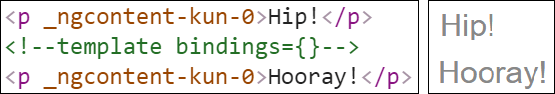
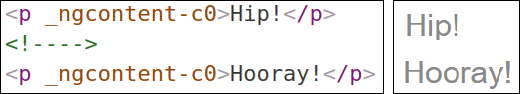
feat(compiler): set `enableLegacyTemplate` to false by default (#18756)
BREAKING CHANGE: the compiler option `enableLegacyTemplate` is now disabled by default as the `<template>` element has been deprecated since v4. Use `<ng-template>` instead. The option `enableLegacyTemplate` and the `<template>` element will both be removed in Angular v6.
PR Close #18756

Changed region(s): [[0.0, 0.0, 0.9846, 1.0], [0.0, 0.0426, 0.6769, 0.3191], [0.0, 0.3617, 0.6462, 0.6383]]

diff --git a/aio/content/examples/structural-directives/src/app/app.component.html b/aio/content/examples/structural-directives/src/app/app.component.html
@@ -55,11 +55,6 @@
 </ng-template>
 <!-- #enddocregion ngif-template -->
 
-<p>template attribute</p>
-<!-- #docregion ngif-template-attr -->
-<div template="ngIf hero">{{hero.name}}</div>
-<!-- #enddocregion ngif-template-attr -->
-
 <hr>
 
 <h2 id="ng-container">&lt;ng-container&gt;</h2>
@@ -131,14 +126,7 @@
 </div>
 
 <!--#enddocregion inside-ngfor -->
-<p class="code">&lt;div template="ngFor let hero of heroes; let i=index; let odd=odd; trackBy: trackById" [class.odd]="odd"&gt;</p>
-<!--#docregion inside-ngfor -->
-<div template="ngFor let hero of heroes; let i=index; let odd=odd; trackBy: trackById" [class.odd]="odd">
-  ({{i}}) {{hero.name}}
-</div>
-
-<!--#enddocregion inside-ngfor -->
-<p class="code">&lt;template ngFor let-hero [ngForOf]="heroes" let-i="index" let-odd="odd" [ngForTrackBy]="trackById"&gt;</p>
+<p class="code">&lt;ng-template ngFor let-hero [ngForOf]="heroes" let-i="index" let-odd="odd" [ngForTrackBy]="trackById"/&gt;</p>
 <!--#docregion inside-ngfor -->
 <ng-template ngFor let-hero [ngForOf]="heroes" let-i="index" let-odd="odd" [ngForTrackBy]="trackById">
   <div [class.odd]="odd">({{i}}) {{hero.name}}</div>
@@ -169,16 +157,6 @@
 </div>
 <!-- #enddocregion built-in, ngswitch -->
 
-<h4>NgSwitch with <i>template</i> attribute</h4>
-<!-- #docregion ngswitch-template-attr -->
-<div [ngSwitch]="hero?.emotion">
-  <happy-hero    template="ngSwitchCase 'happy'"    [hero]="hero"></happy-hero>
-  <sad-hero      template="ngSwitchCase 'sad'"      [hero]="hero"></sad-hero>
-  <confused-hero template="ngSwitchCase 'confused'" [hero]="hero"></confused-hero>
-  <unknown-hero  template="ngSwitchDefault"         [hero]="hero"></unknown-hero>
-</div>
-<!-- #enddocregion ngswitch-template-attr -->
-
 <h4>NgSwitch with &lt;ng-template&gt;</h4>
 <!-- #docregion ngswitch-template -->
 <div [ngSwitch]="hero?.emotion">
@@ -199,7 +177,7 @@
 
 <hr>
 
-<h2>&lt;template&gt;</h2>
+<h2>&lt;ng-template&gt;</h2>
 <!-- #docregion template-tag -->
 <p>Hip!</p>
 <ng-template>
@@ -238,13 +216,13 @@
 <p *myUnless="condition">Show this sentence unless the condition is true.</p>
 <!-- #enddocregion myUnless-1 -->
 
-<p template="myUnless condition" class="code unless">
-  (A) &lt;p template="myUnless condition" class="code unless"&gt;
+<p *myUnless="condition" class="code unless">
+  (A) &lt;p *myUnless="condition" class="code unless"&gt;
 </p>
 
 <ng-template [myUnless]="condition">
   <p class="code unless">
-    (A) &lt;template [myUnless]="condition"&gt;
+    (A) &lt;ng-template [myUnless]="condition"&gt;
   </p>
 </ng-template>
 

diff --git a/packages/compiler/test/template_parser/template_parser_spec.ts b/packages/compiler/test/template_parser/template_parser_spec.ts
@@ -121,16 +121,19 @@ export function main() {
       schemas?: SchemaMetadata[], preserveWhitespaces?: boolean) => TemplateAst[];
   let console: ArrayConsole;
 
-  function commonBeforeEach() {
+  function configureCompiler() {
+    console = new ArrayConsole();
     beforeEach(() => {
-      console = new ArrayConsole();
       TestBed.configureCompiler({
         providers: [
           {provide: Console, useValue: console},
+          {provide: CompilerConfig, useValue: new CompilerConfig({enableLegacyTemplate: true})}
         ],
       });
     });
+  }
 
+  function commonBeforeEach() {
     beforeEach(inject([TemplateParser], (parser: TemplateParser) => {
       const someAnimation = new CompileAnimationEntryMetadata('someAnimation', []);
       const someTemplate = compileTemplateMetadata({animations: [someAnimation]});
@@ -286,6 +289,7 @@ export function main() {
       });
     });
 
+    configureCompiler();
     commonBeforeEach();
 
     describe('security context', () => {
@@ -318,6 +322,7 @@ export function main() {
       TestBed.configureCompiler({providers: [TEST_COMPILER_PROVIDERS, MOCK_SCHEMA_REGISTRY]});
     });
 
+    configureCompiler();
     commonBeforeEach();
 
     describe('parse', () => {
@@ -2129,13 +2134,13 @@ The pipe 'test' could not be found ("{{[ERROR ->]a | test}}"): TestComp@0:2`);
 
   });
 
-  describe('Template Parser - opt-out `<template>` support', () => {
+  describe('Template Parser - `<template>` support disabled by default', () => {
     beforeEach(() => {
       TestBed.configureCompiler({
-        providers: [{
-          provide: CompilerConfig,
-          useValue: new CompilerConfig({enableLegacyTemplate: false}),
-        }],
+        providers: [
+          {provide: Console, useValue: console},
+          {provide: CompilerConfig, useValue: new CompilerConfig()}
+        ],
       });
     });
 

diff --git a/packages/core/test/linker/integration_spec.ts b/packages/core/test/linker/integration_spec.ts
@@ -7,6 +7,7 @@
  */
 
 import {CommonModule} from '@angular/common';
+import {CompilerConfig} from '@angular/compiler';
 import {Compiler, ComponentFactory, ComponentRef, ErrorHandler, EventEmitter, Host, Inject, Injectable, InjectionToken, Injector, NO_ERRORS_SCHEMA, NgModule, NgModuleRef, OnDestroy, SkipSelf, ViewRef} from '@angular/core';
 import {ChangeDetectionStrategy, ChangeDetectorRef, PipeTransform} from '@angular/core/src/change_detection/change_detection';
 import {getDebugContext} from '@angular/core/src/errors';
@@ -37,7 +38,14 @@ export function main() {
 function declareTests({useJit}: {useJit: boolean}) {
   describe('integration tests', function() {
 
-    beforeEach(() => { TestBed.configureCompiler({useJit}); });
+    beforeEach(() => {
+      TestBed.configureCompiler({
+        useJit,
+        providers: [
+          {provide: CompilerConfig, useValue: new CompilerConfig({enableLegacyTemplate: true})}
+        ]
+      });
+    });
 
     describe('react to record changes', function() {
       it('should consume text node changes', () => {

diff --git a/aio/content/examples/ngcontainer/src/app/app.component.html b/aio/content/examples/ngcontainer/src/app/app.component.html
@@ -92,22 +92,22 @@
   </div>
 
   <div>
-    The <code>hero.id</code> in the &lt;template *ngIf&gt; disappears:
+    The <code>hero.id</code> in the &lt;ng-template *ngIf&gt; disappears:
     <p>
-      <template *ngIf="showId">
+      <ng-template *ngIf="showId">
         Id: ({{hero.id}})
-      </template>
+      </ng-template>
       Name: {{hero.name}}
     </p>
   </div>
 
   <div>
-    The <code>hero.id</code> in the &lt;template [ngIf]&gt;
+    The <code>hero.id</code> in the &lt;ng-template [ngIf]&gt;
     is unaffected by the <span>p-span</span> CSS:
     <p>
-      <template [ngIf]="showId">
+      <ng-template [ngIf]="showId">
         Id: ({{hero.id}})
-      </template>
+      </ng-template>
       Name: {{hero.name}}
     </p>
   </div>

diff --git a/aio/content/examples/structural-directives/e2e-spec.ts b/aio/content/examples/structural-directives/e2e-spec.ts
@@ -18,9 +18,9 @@ describe('Structural Directives', function () {
     expect(allLis.get(0).getText()).toEqual('Mr. Nice');
   });
 
-  it('ngSwitch have three <happy-hero> instances', function () {
+  it('ngSwitch have two <happy-hero> instances', function () {
     const happyHeroEls = element.all(by.tagName('happy-hero'));
-    expect(happyHeroEls.count()).toEqual(3);
+    expect(happyHeroEls.count()).toEqual(2);
   });
 
   it('should toggle *ngIf="hero" with a button', function () {

diff --git a/packages/compiler-cli/src/codegen.ts b/packages/compiler-cli/src/codegen.ts
@@ -101,7 +101,7 @@ export class CodeGenerator {
       translations: transContent,
       i18nFormat: cliOptions.i18nFormat || undefined,
       locale: cliOptions.locale || undefined, missingTranslation,
-      enableLegacyTemplate: options.enableLegacyTemplate !== false,
+      enableLegacyTemplate: options.enableLegacyTemplate === true,
       enableSummariesForJit: options.enableSummariesForJit !== false,
       preserveWhitespaces: options.preserveWhitespaces,
     });

diff --git a/packages/compiler-cli/src/transformers/api.ts b/packages/compiler-cli/src/transformers/api.ts
@@ -90,7 +90,7 @@ export interface CompilerOptions extends ts.CompilerOptions {
   // Print extra information while running the compiler
   trace?: boolean;
 
-  // Whether to enable support for <template> and the template attribute (true by default)
+  // Whether to enable support for <template> and the template attribute (false by default)
   enableLegacyTemplate?: boolean;
 
   // Whether to enable lowering expressions lambdas and expressions in a reference value

diff --git a/packages/compiler/src/aot/compiler_factory.ts b/packages/compiler/src/aot/compiler_factory.ts
@@ -65,7 +65,7 @@ export function createAotCompiler(compilerHost: AotCompilerHost, options: AotCom
   const config = new CompilerConfig({
     defaultEncapsulation: ViewEncapsulation.Emulated,
     useJit: false,
-    enableLegacyTemplate: options.enableLegacyTemplate !== false,
+    enableLegacyTemplate: options.enableLegacyTemplate === true,
     missingTranslation: options.missingTranslation,
     preserveWhitespaces: options.preserveWhitespaces,
   });

diff --git a/packages/tsc-wrapped/src/options.ts b/packages/tsc-wrapped/src/options.ts
@@ -76,7 +76,7 @@ interface Options extends ts.CompilerOptions {
   // Print extra information while running the compiler
   trace?: boolean;
 
-  // Whether to enable support for <template> and the template attribute (true by default)
+  // Whether to enable support for <template> and the template attribute (false by default)
   enableLegacyTemplate?: boolean;
 
   // Whether to generate .ngsummary.ts files that allow to use AOTed artifacts

diff --git a/aio/content/examples/template-syntax/src/app/app.component.html b/aio/content/examples/template-syntax/src/app/app.component.html
@@ -78,11 +78,11 @@
 
 <p>Template input variable expression context (let hero)</p>
 <!-- template hides the following; plenty of examples later -->
-<template>
+<ng-template>
   <!-- #docregion context-var -->
   <div *ngFor="let hero of heroes">{{hero.name}}</div>
   <!-- #enddocregion context-var -->
-</template>
+</ng-template>
 
 <p>Template reference variable expression context (#heroInput)</p>
 <div (keyup)="0" class="context">

diff --git a/packages/compiler/src/config.ts b/packages/compiler/src/config.ts
@@ -36,7 +36,7 @@ export class CompilerConfig {
     this.useJit = !!useJit;
     this.jitDevMode = !!jitDevMode;
     this.missingTranslation = missingTranslation || null;
-    this.enableLegacyTemplate = enableLegacyTemplate !== false;
+    this.enableLegacyTemplate = enableLegacyTemplate === true;
     this.preserveWhitespaces = preserveWhitespacesDefault(noUndefined(preserveWhitespaces));
   }
 }

diff --git a/aio/content/examples/structural-directives/src/app/unless.directive.ts b/aio/content/examples/structural-directives/src/app/unless.directive.ts
@@ -19,8 +19,7 @@ import { Directive, Input, TemplateRef, ViewContainerRef } from '@angular/core';
  * ### Syntax
  *
  * - `<div *myUnless="condition">...</div>`
- * - `<div template="myUnless condition">...</div>`
- * - `<template [myUnless]="condition"><div>...</div></template>`
+ * - `<ng-template [myUnless]="condition"><div>...</div></ng-template>`
  *
 // #docregion no-docs
  */
